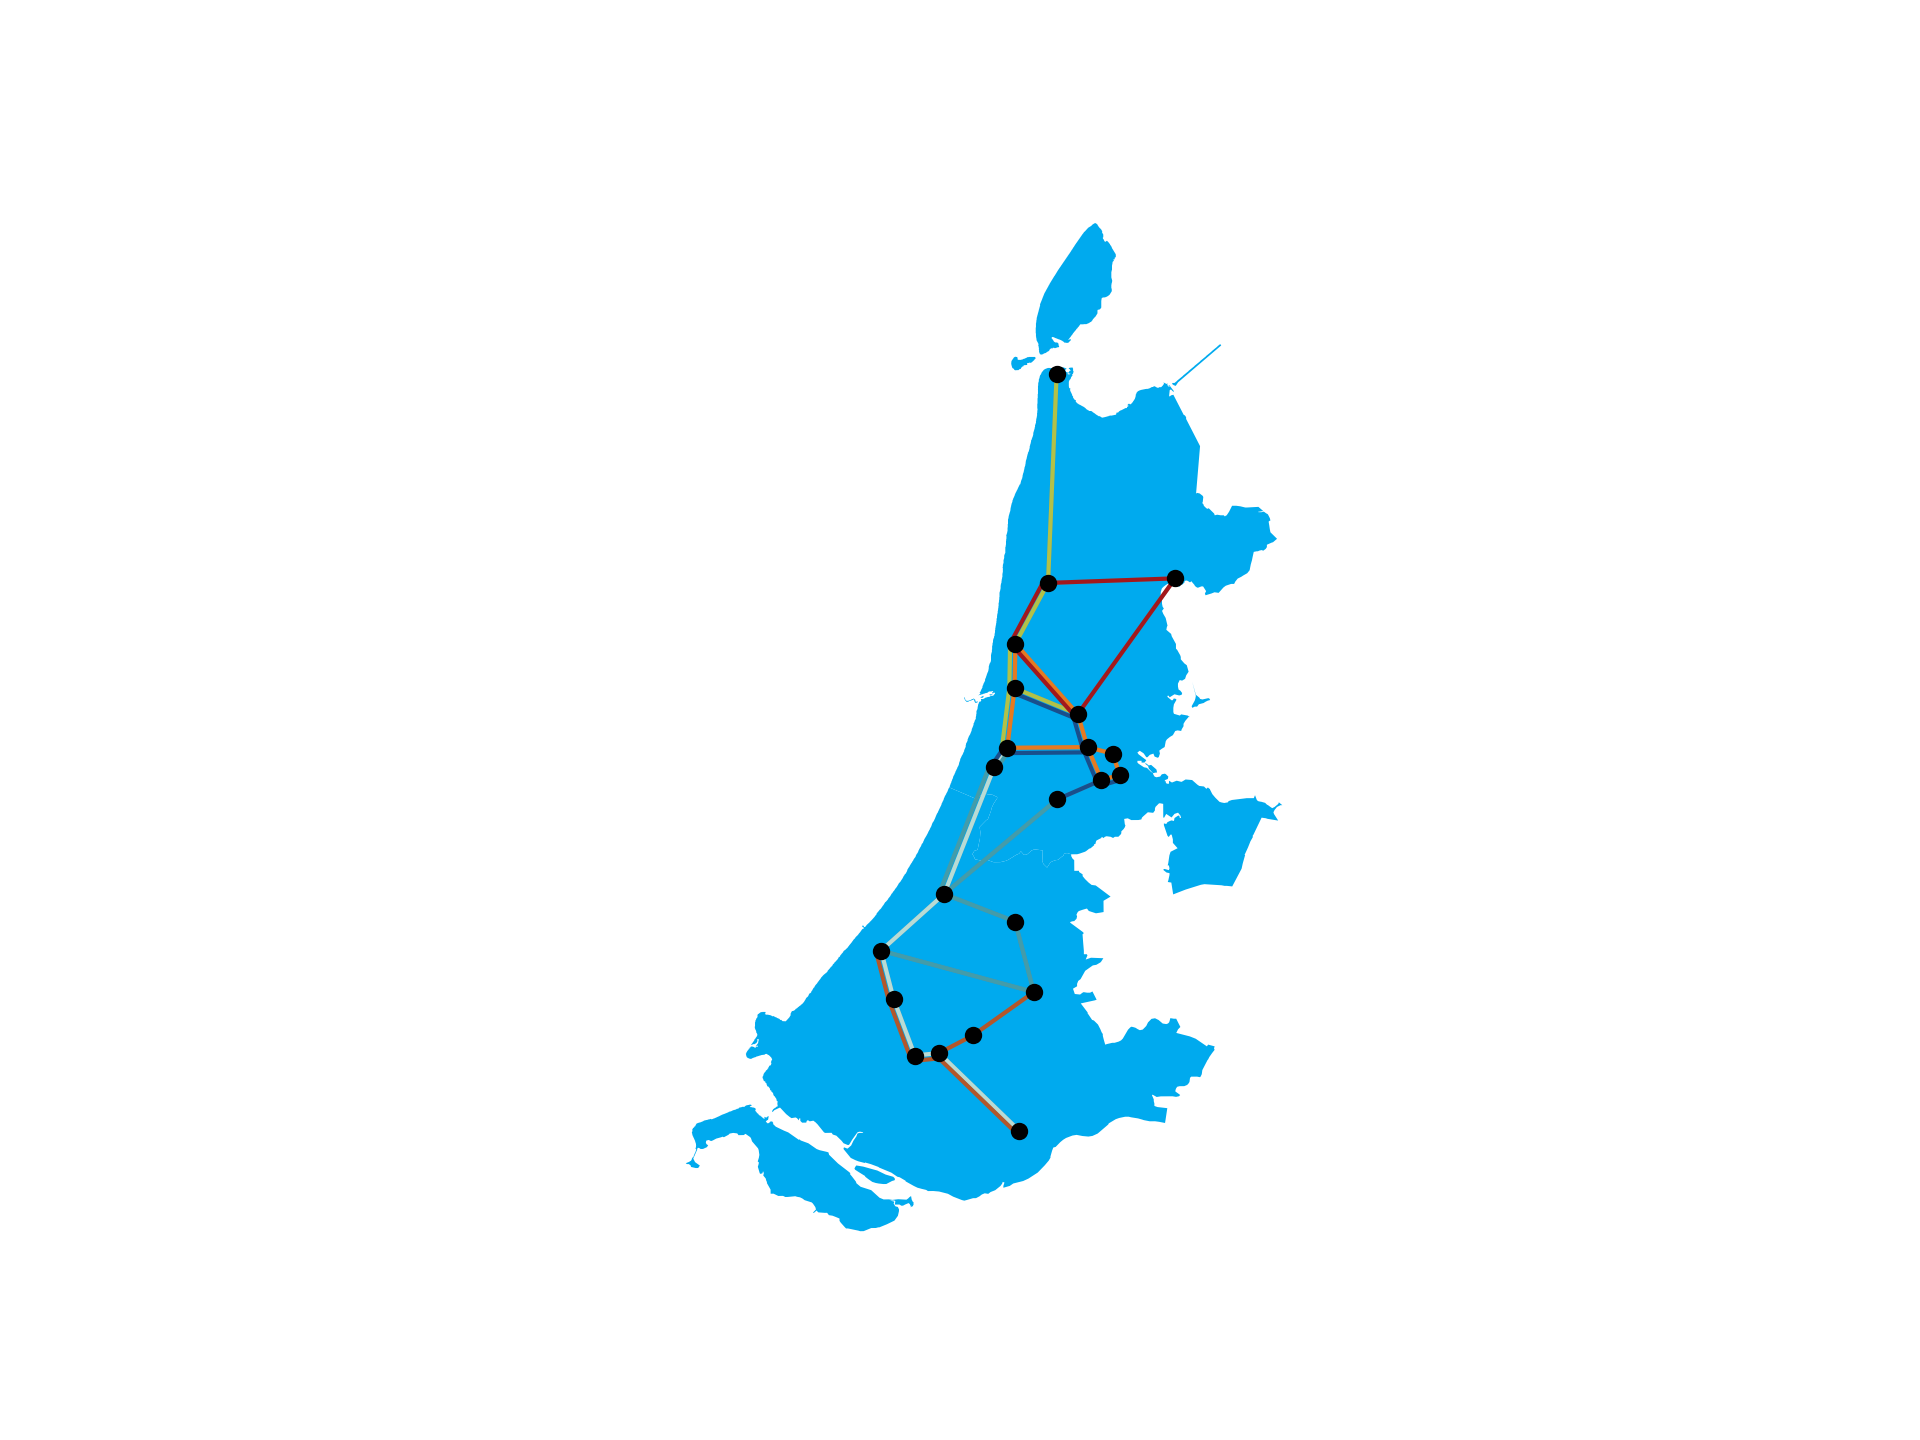
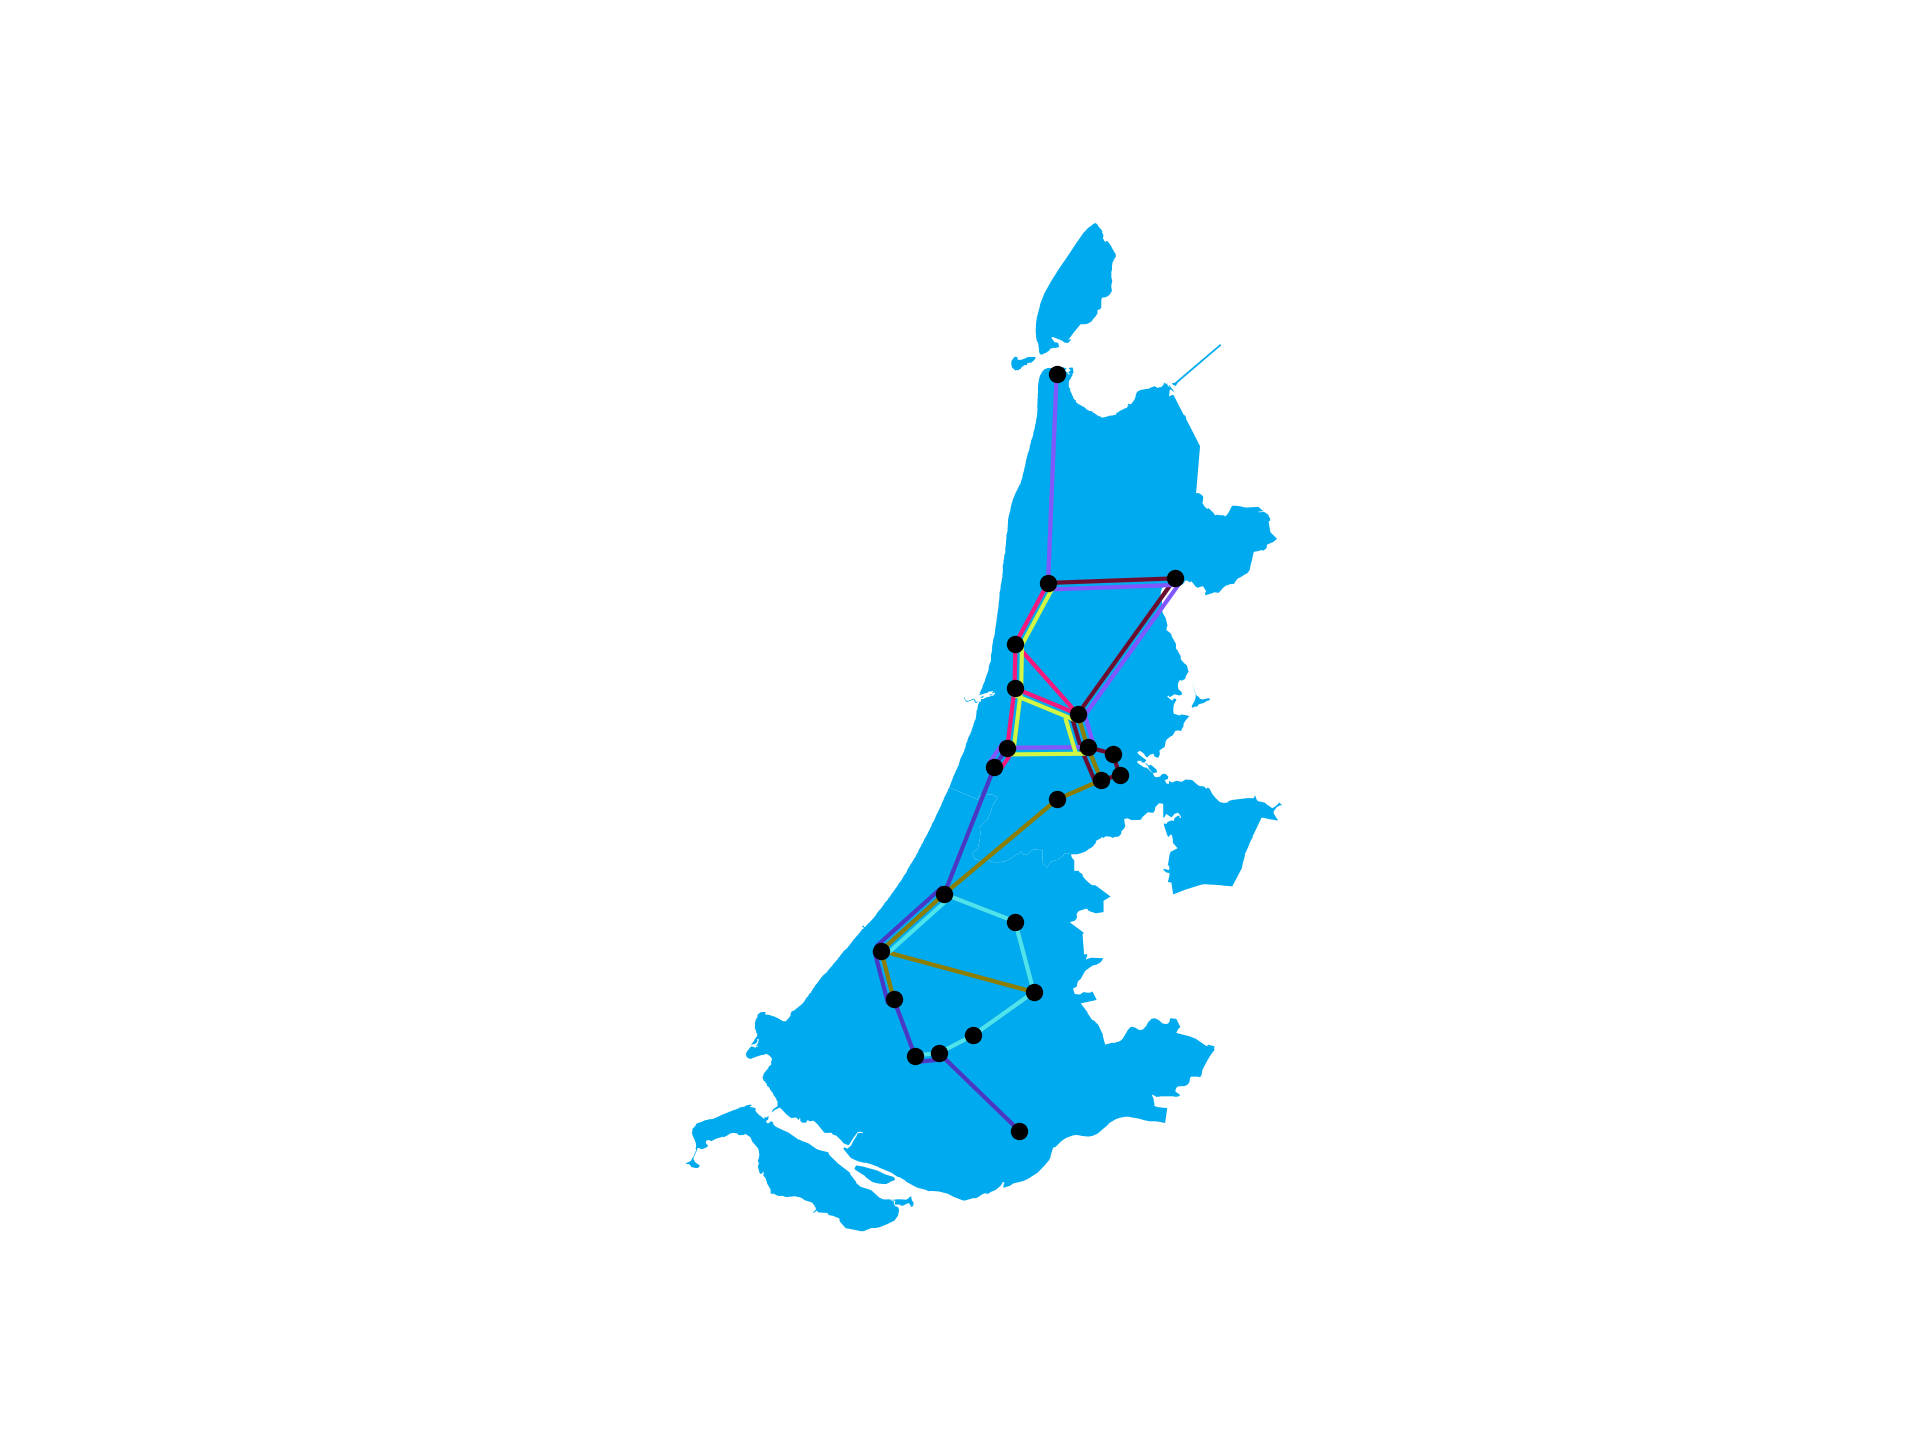
visualization for static offset works

diff --git a/code/visualization/plot_lines.py b/code/visualization/plot_lines.py
@@ -4,15 +4,20 @@
 version: python 3.8
 plot_lines.py creates plots for input lines
 Michael Faber, 6087582
+Dani van Enk, 11823526
 """
 
 import sys
 import os
+import math
+import random
+
 import matplotlib.pyplot as plt
 import geopandas as gpd
-import math
+
+from wcag_contrast_ratio import rgb
+from PIL import ImageColor
 from collections import defaultdict
-import random
 
 def plot_map(stations, connections, lines, area, output_path="./output/"):
     """
@@ -20,20 +25,23 @@ def plot_map(stations, connections, lines, area, output_path="./output/"):
     """
 
     # Create Figure and Axe
-    fig = plt.figure()
+    fig = plt.figure(dpi=300)
     fig, ax = plt.subplots()
     plt.axis("off")
 
     # Format Options of Holland and others
     if area == "Holland":
-        land_color = "#00AAEE"
+        land_color = tuple(i/255. for i in ImageColor.getrgb("#0AE"))
         marker_size = 10
         line_size = 1
     
     else: #if area == "Nationaal":
-        land_color = "#EE0066"
-        marker_size = 10
-        line_size = 1 
+        land_color = tuple(i/255. for i in ImageColor.getrgb("#E06"))
+        marker_size = 5
+        line_size = 1
+
+    # predefine used colors
+    used_colors = []
     
     # Plot Background using geopandas
     gpd_map(area).plot(ax=ax, color=land_color)
@@ -47,14 +55,14 @@ def plot_map(stations, connections, lines, area, output_path="./output/"):
         connect_lat = [station.position[1] for station in connection.section]
 
         # Plot connection
-        ax.plot(connect_lat,connect_long, linewidth=line_size, color="grey", alpha=0.5, zorder=1)
+        ax.plot(connect_long,connect_lat, linewidth=line_size, color="grey", alpha=0.5, zorder=1)
 
     # Create lists of x and y values from the coordinates of all stations
     station_long = [station.position[0] for station in stations.values()]
     station_lat = [station.position[1] for station in stations.values()]
 
-    # Calculate the ratio between the latitude and longitude
-    ratio = aspect_ratio(station_long)
+    # Calculate the ratio between the longitude and latitude
+    ratio = aspect_ratio(station_lat)
     
     # Create a dictionary of connections that need ofset
     ofset = ofset_dict(lines)
@@ -62,21 +70,28 @@ def plot_map(stations, connections, lines, area, output_path="./output/"):
     # For-loop to get each single line
     for line_number in range(len(lines)):
 
-        # Set color for line
+        # generate random color
         color = random_color()
+
+        # generate new color untill not in used colors and the contrast is high enough
+        while (rgb(color, land_color) >= 10 and color not in used_colors):
+            color = random_color()
+
+        # add color to used color
+        used_colors.append(color)
         
         # For-loop to get each connection in a line
         for connection in list(set(lines[line_number].connections)):
             
-            # Get the adjusted latitude and longitude
-            latitude, longitude = line_coords(connection, ofset, ratio, line_number)
+            # Get the adjusted longitude and latitude
+            longitude, latitude = line_coords(connection, ofset, ratio, line_number)
   
             # Plot connection
-            ax.plot(latitude, longitude, c=color, linewidth=line_size, zorder=2)
-            #print(latitude, longitude)
+            line = ax.plot(longitude, latitude, c=color, linewidth=line_size, zorder=2)
+            # print(longitude, latitude)
 
     # Plot all stations
-    ax.scatter(station_lat,station_long, s=marker_size, marker="o", color="black", zorder=3)
+    ax.scatter(station_long, station_lat, s=marker_size, marker="o", color="black", zorder=3)
 
     # Set aspect using ratio value
     ax.set_aspect(ratio)
@@ -140,22 +155,22 @@ def gpd_map(area, path="./data/shapefile/NLD_adm1.dbf"):
 
     return gdf           
 
-def line_coords(connection, ofset_dict, ratio, line_number, line_size=1, line_distance=0.008):
+def line_coords(connection, ofset_dict, ratio, line_number, line_size=1, line_distance=0.01):
     """
     Give start and end values of connection, with ofset if it is needed.
     """
 
-    # Create two lists with latitude and longitude values of begin and end of connection
-    latitude = [connection.section[0].position[1], connection.section[1].position[1]]
-    longitude =  [connection.section[0].position[0], connection.section[1].position[0]]
+    # Create two lists with longitude and latitude values of begin and end of connection
+    longitude = [connection.section[0].position[0], connection.section[1].position[0]]
+    latitude =  [connection.section[0].position[1], connection.section[1].position[1]]
 
     # Check if other lines are using same conncection
     other_lines =  ofset_dict[line_number][connection]
 
     # If no other lines are using the same connection make no adjustments
     if other_lines == 0:
-        adjusted_latitude = latitude
         adjusted_longitude = longitude
+        adjusted_latitude = latitude
 
     # If other lines are using the same connection
     else:
@@ -163,20 +178,21 @@ def line_coords(connection, ofset_dict, ratio, line_number, line_size=1, line_di
         # Set new location where connection will come
         ofset_state = round((1-(2.0001*(other_lines%2)))*other_lines/2)
 
-        # Use ratio to calculate line distance for latitude
-        latitude_distance = line_distance * ratio
+        # # Use ratio to calculate line distance for longitude
+        # longitude_distance = line_distance * ratio
 
-        # If latitude is larger than longitude, set ofset to longitude
-        if abs(latitude[0]-latitude[1]) >= (abs(longitude[0]-longitude[1])):
-            adjusted_longitude = [y + (ofset_state*line_size*line_distance) for y in longitude]
-            adjusted_latitude = latitude
-        
-        # If latitude is smaller than longitude, set ofset to latitude
-        else:
-            adjusted_latitude = [x + (ofset_state*line_size*latitude_distance) for x in latitude]
-            adjusted_longitude = longitude
+        # calculate angle between the x-axis and the linesection
+        angle = math.atan((latitude[1] - latitude[0]) / (longitude[1] - longitude[0]))
 
-    return (adjusted_latitude, adjusted_longitude)
+        # calculate the offset for x and y, line_distance must be the linewidth and margin
+        xoffset = -ofset_state * line_distance * ratio * math.sin(angle)
+        yoffset = ofset_state * line_distance * math.cos(angle)
+
+        # calculate the adjusted long/lat values
+        adjusted_longitude = [x + xoffset for x in longitude]
+        adjusted_latitude = [y + yoffset for y in latitude]
+
+    return (adjusted_longitude, adjusted_latitude)
 
 def ofset_dict(lines):
     """
@@ -209,13 +225,13 @@ def ofset_dict(lines):
 
     return(ofset)
 
-def aspect_ratio(longitude_list):
+def aspect_ratio(latitude_list):
     """ 
-    Return the correct ratio of longitude and latitude for use in map 
+    Return the correct ratio of latitude and longitude for use in map 
     """
 
-    # Find middle of map by dividing sum of lowest and highest longitude by 2
-    middle_long = ((max(longitude_list)+min(longitude_list))/2)
+    # Find middle of map by dividing sum of lowest and highest latitude by 2
+    middle_long = ((max(latitude_list)+min(latitude_list))/2)
 
     # Return calculated ratio
     # Formula from: https://stackoverflow.com/q/18873623

diff --git a/code/algorithms/random_relax.py b/code/algorithms/random_relax.py
@@ -17,7 +17,7 @@ from code.data_loader.load_data import load
 from code.classes import Line, Connection
 from code.function.objective import goal_function
 
-class Random_Connections():
+class Random_Relax_Connections():
 
     def __init__(self, connections, max_duration, max_n_of_l):
         self._connections = connections
@@ -43,13 +43,25 @@ class Random_Connections():
         line.add_connection(rd.choice(self._connections), self._max_duration)
 
         while (line.duration + min(line.get_all_options().keys(), \
-               key=lambda x: x.duration).duration <= self._max_duration):
+            key=lambda x: x.duration).duration <= self._max_duration):
             
             options = rd.choice(line.get_begin_end_options())
 
-            line.add_connection(rd.choice(list(options.keys())), self._max_duration)
+            connection = rd.choice(list(options.keys()))
+            if line.add_connection(connection, self._max_duration):
+                self.penalty_check(line, connection)
 
         return line
+
+    def penalty_check(self, line, connection):
+
+        try:
+            assert type(line) is Line and type(connection) is Connection
+        except AssertionError:
+            exit("PenaltyCheckError: Make sure line is of type Line and connection is of type Connection")
+        
+        if line.connections[-1] == connection or line.connections[0] == connection:
+            line.add_to_penalty(1000)
 
     def run(self, repeat=1):
 
@@ -62,12 +74,17 @@ class Random_Connections():
             for n_of_l in range(self._max_n_of_l, self._min_n_of_l - 1, -1):
                 lines = []
 
+                total_penalty = 0
+
                 for line_index in range(n_of_l):
-                    lines.append(self.create_line(line_index))
+                    line = self.create_line(line_index)
+                    lines.append(line)
 
-                goal_function_result = goal_function(lines, self._connections, n_of_l)
+                    total_penalty += line.penalty
 
-                self._result.append((lines,) + goal_function(lines, self._connections, n_of_l))
+                goal_function_result = goal_function(lines, self._connections, n_of_l, total_penalty)
+
+                self._result.append((lines,) + goal_function_result)
                 self._scores["run"].append(run)
                 self._scores["score"].append(goal_function_result[0]) 
 

diff --git a/code/classes/station_class.py b/code/classes/station_class.py
@@ -25,29 +25,29 @@ class Station():
             setter: connection is of type Conenction
     """
 
-    def __init__(self, name, x, y):
+    def __init__(self, name, lat, long):
         """
         initialize a station
 
         paramters:
             name    - name of the station;
-            x       - longitude position of the station;
-            y       - latitude position of the station;
+            lat     - latitude position of the station;
+            long    - longitude position of the station;
         """
 
         # make sure x/y are floats and name is a string
         try:
             assert type(name) is str
-            x = float(x)
-            y = float(y)
+            lat = float(lat)
+            long = float(long)
         except (AssertionError, ValueError):
             exit("StationInitError: please make sure the name is a string "
-                 "and x/y are floats")
+                 "and long/lat are floats")
 
         # define name, longitude, latitude and connections attirbutes
         self._name = name
-        self._longitude = x
-        self._latitude = y
+        self._longitude = long
+        self._latitude = lat
         self._connections = dict()
 
     @property
@@ -112,3 +112,6 @@ class Station():
     #     """
 
         return self._name
+
+    def __eq__(self, other):
+        return self._name == other

diff --git a/code/classes/line_class.py b/code/classes/line_class.py
@@ -41,6 +41,7 @@ class Line():
         self._id = _id
         self._connections = []
         self._stations = []
+        self._penalty = 0
 
     @property
     def duration(self):
@@ -84,6 +85,19 @@ class Line():
         """
 
         return self._connections
+
+    @property
+    def penalty(self):
+        return self._penalty
+
+    def add_to_penalty(self, value):
+
+        try:
+            float(value)
+        except ValueError:
+            exit("AdditionError: make sure value is a number")
+
+        self._penalty += value
 
     def get_begin_end_options(self):
 

diff --git a/code/data_loader/load_data.py b/code/data_loader/load_data.py
@@ -39,7 +39,7 @@ def load(stations_file, connections_file):
     except FileNotFoundError:
         exit(f"{PATH_Connections} not found")
 
-    stations = {name: Station(name, x, y) for name, x, y in stations_reader}
+    stations = {name: Station(name, lat, long) for name, lat, long in stations_reader}
     connections = [Connection(stations[start], stations[end], duration)
                    for start, end, duration in connections_reader]
 

diff --git a/main.py b/main.py
@@ -107,7 +107,7 @@ def calc_state_space(stations, connections, duration, n_of_l):
 if __name__ == "__main__":
 
     from code.data_loader.load_data import load
-    from code.algorithms.random import Random_Connections
+    from code.algorithms import Random_Connections, Random_Relax_Connections
     from code.visualization.plot_lines import plot_map
 
     start = time.time_ns()

diff --git a/code/function/objective.py b/code/function/objective.py
@@ -7,10 +7,10 @@ Dani van Enk, 11823526
 """
 
 
-def goal_function(lines, connections, n_of_l):
+def goal_function(lines, connections, n_of_l, penalty=0):
 
     used_connections = set()
-    Min = 0
+    Min = penalty
 
     for line in lines:
         Min += line.duration

diff --git a/code/algorithms/__init__.py b/code/algorithms/__init__.py
@@ -1,0 +1,2 @@
+from .random import Random_Connections
+from .random_relax import Random_Relax_Connections
